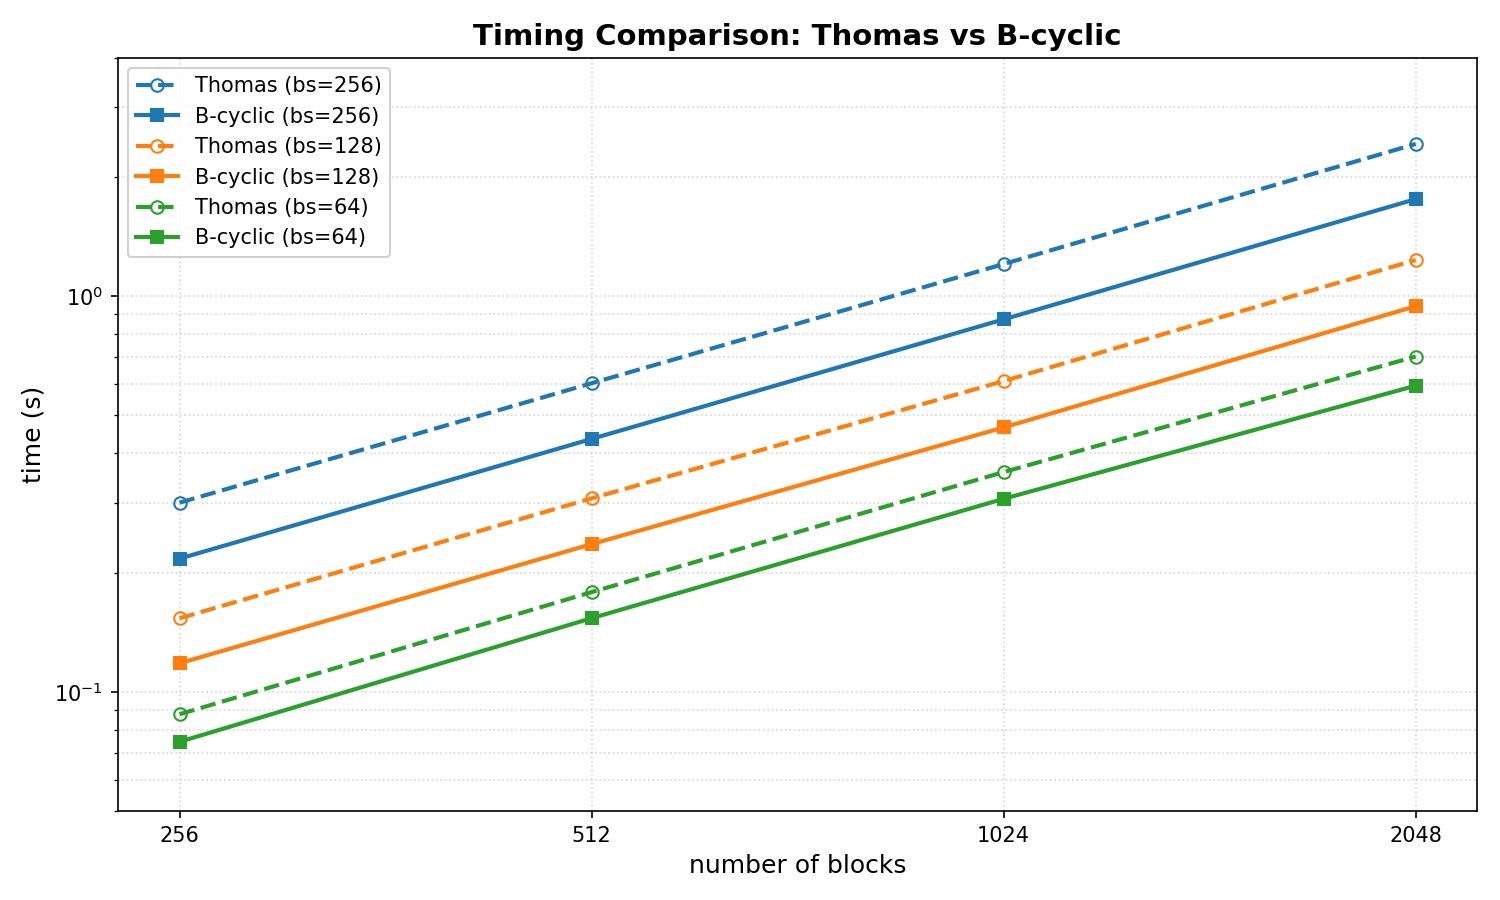
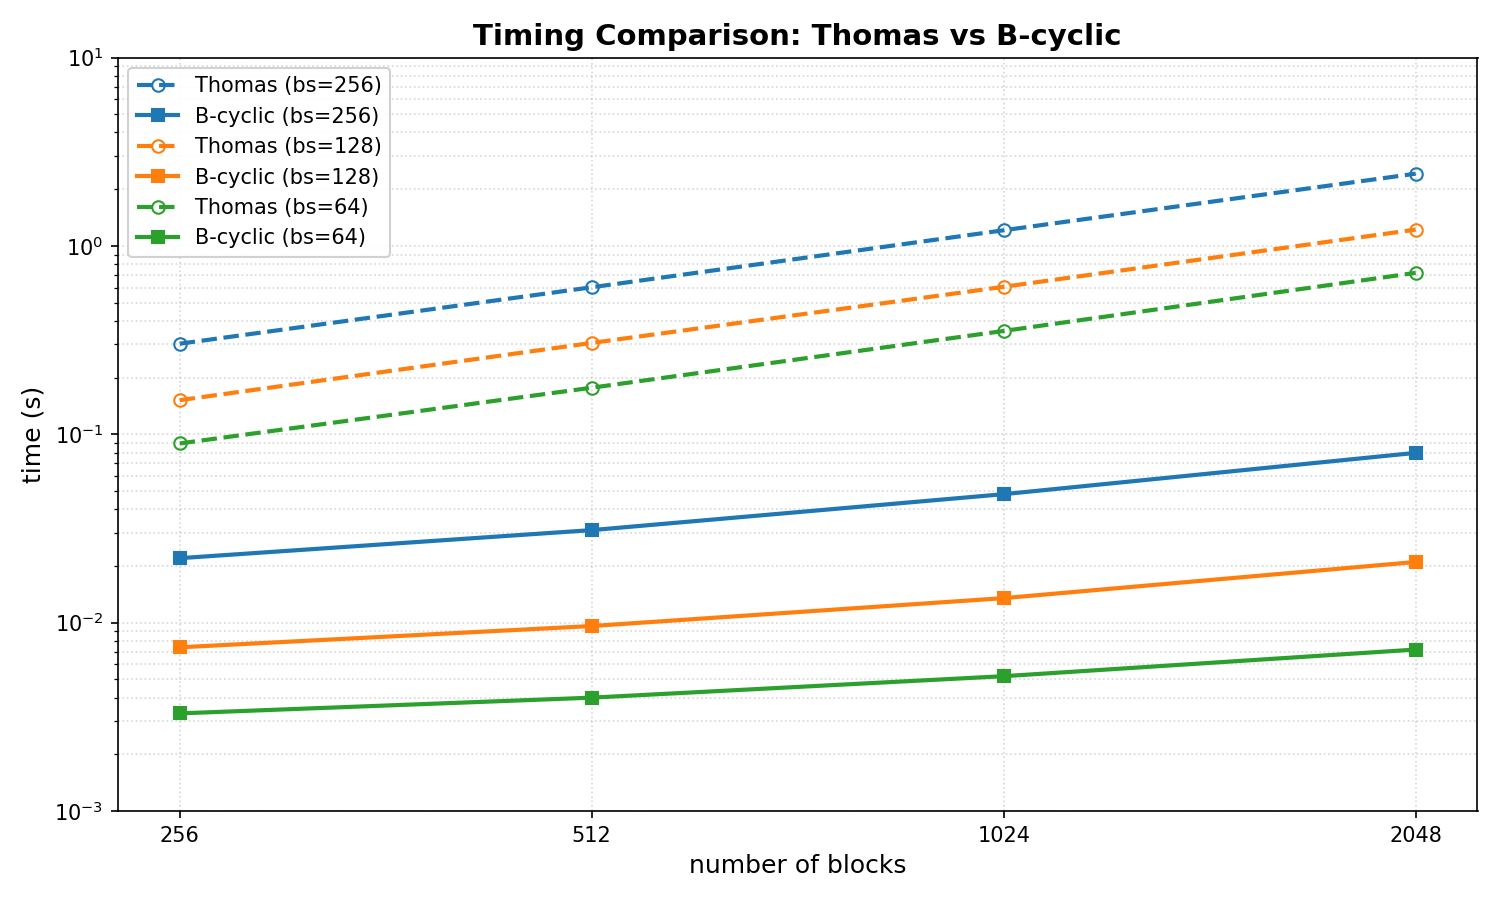
switch bcyclic to batch mode

diff --git a/blocktrix/solver_bcyclic.py b/blocktrix/solver_bcyclic.py
@@ -1,7 +1,6 @@
 import math
 import jax
 import jax.numpy as jnp
-from jax import lax
 from functools import partial
 
 """
@@ -15,96 +14,123 @@ Complexity: O(log(n) * m^3) where n = number of blocks, m = block size
 """
 
 
-def _make_eliminate_row(stride, n_blocks):
-    """Factory function to create eliminate_row with captured stride."""
+def _eliminate_level(D, L, U, B, stride, n_blocks, n_elim):
+    """
+    Eliminate all odd-multiple rows at a given level using batched LU solves.
 
-    def eliminate_row(carry, k):
-        """Eliminate row at position i = (2k+1) * stride."""
-        D, L, U, B, tape_Dinv_L_level, tape_Dinv_U_level, tape_Dinv_rhs_level = carry
-        i = (2 * k + 1) * stride
-        i_prev = i - stride
-        i_next = i + stride
+    At each level with stride s, we eliminate rows at positions i = (2k+1)*s
+    for k = 0, 1, ..., n_elim-1. All these LU solves are independent and
+    can be computed in parallel using vmap.
+    """
+    m = D.shape[1]
 
-        # Compute D_i^{-1} @ L_i, D_i^{-1} @ U_i, D_i^{-1} @ B_i
-        D_i = D[i]
-        L_i = L[i]
-        U_i = U[i]
-        B_i = B[i]
+    # Compute indices for rows to eliminate
+    ks = jnp.arange(n_elim)
+    elim_indices = (2 * ks + 1) * stride  # rows being eliminated
+    prev_indices = elim_indices - stride  # rows before (always valid)
+    next_indices = elim_indices + stride  # rows after (may be out of bounds)
 
-        Dinv_L = jax.scipy.linalg.solve(D_i, L_i)
-        Dinv_U = jax.scipy.linalg.solve(D_i, U_i)
-        Dinv_B = jax.scipy.linalg.solve(D_i, B_i)
+    # Gather matrices for eliminated rows
+    D_elim = D[elim_indices]  # (n_elim, m, m)
+    L_elim = L[elim_indices]  # (n_elim, m, m)
+    U_elim = U[elim_indices]  # (n_elim, m, m)
+    B_elim = B[elim_indices]  # (n_elim, m, k)
 
-        # Store in tape for back-substitution
-        tape_Dinv_L_level = tape_Dinv_L_level.at[i].set(Dinv_L)
-        tape_Dinv_U_level = tape_Dinv_U_level.at[i].set(Dinv_U)
-        tape_Dinv_rhs_level = tape_Dinv_rhs_level.at[i].set(Dinv_B)
+    # Batched LU solves: D_i^{-1} @ [L_i, U_i, B_i] for all eliminated rows
+    # jax.scipy.linalg.solve supports batching on leading dimensions
+    Dinv_L = jax.scipy.linalg.solve(D_elim, L_elim)  # (n_elim, m, m)
+    Dinv_U = jax.scipy.linalg.solve(D_elim, U_elim)  # (n_elim, m, m)
+    Dinv_B = jax.scipy.linalg.solve(D_elim, B_elim)  # (n_elim, m, k)
 
-        # Update row i_prev
-        U_prev = U[i_prev]
-        D = D.at[i_prev].set(D[i_prev] - U_prev @ Dinv_L)
-        B = B.at[i_prev].set(B[i_prev] - U_prev @ Dinv_B)
-        U = U.at[i_prev].set(-U_prev @ Dinv_U)
+    # Store tape values using scatter
+    tape_Dinv_L_level = jnp.zeros((n_blocks, m, m)).at[elim_indices].set(Dinv_L)
+    tape_Dinv_U_level = jnp.zeros((n_blocks, m, m)).at[elim_indices].set(Dinv_U)
+    tape_Dinv_rhs_level = (
+        jnp.zeros((n_blocks, m, B.shape[-1])).at[elim_indices].set(Dinv_B)
+    )
 
-        # Update row i_next (if it exists)
-        def update_next(args):
-            D, L, B, Dinv_L, Dinv_U, Dinv_B = args
-            L_next = L[i_next]
-            D = D.at[i_next].set(D[i_next] - L_next @ Dinv_U)
-            B = B.at[i_next].set(B[i_next] - L_next @ Dinv_B)
-            L = L.at[i_next].set(-L_next @ Dinv_L)
-            return D, L, B
+    # Update previous rows (i_prev = i - stride): always valid
+    U_prev = U[prev_indices]  # (n_elim, m, m)
+    D_prev_update = D[prev_indices] - jnp.einsum("bij,bjk->bik", U_prev, Dinv_L)
+    B_prev_update = B[prev_indices] - jnp.einsum("bij,bjk->bik", U_prev, Dinv_B)
+    U_prev_update = -jnp.einsum("bij,bjk->bik", U_prev, Dinv_U)
 
-        def no_update(args):
-            D, L, B, _, _, _ = args
-            return D, L, B
+    D = D.at[prev_indices].set(D_prev_update)
+    B = B.at[prev_indices].set(B_prev_update)
+    U = U.at[prev_indices].set(U_prev_update)
 
-        D, L, B = lax.cond(
-            i_next < n_blocks,
-            update_next,
-            no_update,
-            (D, L, B, Dinv_L, Dinv_U, Dinv_B),
-        )
+    # Update next rows (i_next = i + stride): only if in bounds
+    # Create mask for valid next indices
+    valid_next = next_indices < n_blocks
 
-        return (
-            D,
-            L,
-            U,
-            B,
-            tape_Dinv_L_level,
-            tape_Dinv_U_level,
-            tape_Dinv_rhs_level,
-        ), None
+    # Gather L_next, but use zeros for out-of-bounds indices
+    safe_next_indices = jnp.where(valid_next, next_indices, 0)
+    L_next = L[safe_next_indices]  # (n_elim, m, m)
 
-    return eliminate_row
+    # Compute updates (will be masked)
+    D_next_vals = D[safe_next_indices] - jnp.einsum("bij,bjk->bik", L_next, Dinv_U)
+    B_next_vals = B[safe_next_indices] - jnp.einsum("bij,bjk->bik", L_next, Dinv_B)
+    L_next_vals = -jnp.einsum("bij,bjk->bik", L_next, Dinv_L)
+
+    # Only update where valid_next is True
+    # Use where to mask updates
+    D_next_update = jnp.where(
+        valid_next[:, None, None], D_next_vals, D[safe_next_indices]
+    )
+    B_next_update = jnp.where(
+        valid_next[:, None, None], B_next_vals, B[safe_next_indices]
+    )
+    L_next_update = jnp.where(
+        valid_next[:, None, None], L_next_vals, L[safe_next_indices]
+    )
+
+    D = D.at[safe_next_indices].set(D_next_update)
+    B = B.at[safe_next_indices].set(B_next_update)
+    L = L.at[safe_next_indices].set(L_next_update)
+
+    return D, L, U, B, tape_Dinv_L_level, tape_Dinv_U_level, tape_Dinv_rhs_level
 
 
-def _make_recover_row(stride, n_blocks, tape_Dinv_L, tape_Dinv_U, tape_Dinv_rhs, level):
-    """Factory function to create recover_row with captured values."""
+def _recover_level(
+    x, tape_Dinv_L, tape_Dinv_U, tape_Dinv_rhs, stride, n_blocks, n_elim, level
+):
+    """
+    Recover all eliminated rows at a given level using batched operations.
 
-    def recover_row(x, k):
-        """Recover row at position i = (2k+1) * stride."""
-        i = (2 * k + 1) * stride
-        i_prev = i - stride
-        i_next = i + stride
+    At each level with stride s, we recover rows at positions i = (2k+1)*s
+    for k = 0, 1, ..., n_elim-1.
+    """
+    # Compute indices
+    ks = jnp.arange(n_elim)
+    elim_indices = (2 * ks + 1) * stride
+    prev_indices = elim_indices - stride
+    next_indices = elim_indices + stride
 
-        # x_i = D_i^{-1} @ (B_i - L_i @ x_{i-s} - U_i @ x_{i+s})
-        # The tape stores values for row i (the eliminated row)
-        x_i = tape_Dinv_rhs[level, i] - tape_Dinv_L[level, i] @ x[i_prev]
+    # Gather tape values for eliminated rows
+    Dinv_rhs = tape_Dinv_rhs[level, elim_indices]  # (n_elim, m, k)
+    Dinv_L = tape_Dinv_L[level, elim_indices]  # (n_elim, m, m)
+    Dinv_U = tape_Dinv_U[level, elim_indices]  # (n_elim, m, m)
 
-        # Subtract contribution from i_next if it exists
-        # Note: tape_Dinv_U[level, i] stores D_i^{-1} @ U_i for the eliminated row i
-        x_i = lax.cond(
-            i_next < n_blocks,
-            lambda args: args[0] - tape_Dinv_U[level, i] @ x[args[1]],
-            lambda args: args[0],
-            (x_i, i_next),
-        )
+    # Gather x values for previous rows (always valid)
+    x_prev = x[prev_indices]  # (n_elim, m, k)
 
-        x = x.at[i].set(x_i)
-        return x, None
+    # x_i = Dinv_rhs - Dinv_L @ x_prev - Dinv_U @ x_next (if valid)
+    x_elim = Dinv_rhs - jnp.einsum("bij,bjk->bik", Dinv_L, x_prev)
 
-    return recover_row
+    # Handle next rows (may be out of bounds)
+    valid_next = next_indices < n_blocks
+    safe_next_indices = jnp.where(valid_next, next_indices, 0)
+    x_next = x[safe_next_indices]  # (n_elim, m, k)
+
+    # Subtract contribution from next rows where valid
+    next_contrib = jnp.einsum("bij,bjk->bik", Dinv_U, x_next)
+    next_contrib = jnp.where(valid_next[:, None, None], next_contrib, 0.0)
+    x_elim = x_elim - next_contrib
+
+    # Scatter back to x
+    x = x.at[elim_indices].set(x_elim)
+
+    return x
 
 
 @partial(jax.jit, static_argnums=(0,))
@@ -178,23 +204,13 @@ def solve_block_tridiagonal_bcyclic(n_blocks, lower, diag, upper, rhs):
     U = upper_padded
     B = rhs
 
-    # Reduction phase - unrolled at compile time
+    # Reduction phase - unrolled at compile time with batched LU solves
     for level in range(n_levels):
         stride = 2**level
         n_elim = n_blocks // (2 * stride)
 
-        eliminate_row = _make_eliminate_row(stride, n_blocks)
-
-        tape_Dinv_L_level = tape_Dinv_L[level]
-        tape_Dinv_U_level = tape_Dinv_U[level]
-        tape_Dinv_rhs_level = tape_Dinv_rhs[level]
-
-        (D, L, U, B, tape_Dinv_L_level, tape_Dinv_U_level, tape_Dinv_rhs_level), _ = (
-            lax.scan(
-                eliminate_row,
-                (D, L, U, B, tape_Dinv_L_level, tape_Dinv_U_level, tape_Dinv_rhs_level),
-                jnp.arange(n_elim),
-            )
+        D, L, U, B, tape_Dinv_L_level, tape_Dinv_U_level, tape_Dinv_rhs_level = (
+            _eliminate_level(D, L, U, B, stride, n_blocks, n_elim)
         )
 
         tape_Dinv_L = tape_Dinv_L.at[level].set(tape_Dinv_L_level)
@@ -205,16 +221,14 @@ def solve_block_tridiagonal_bcyclic(n_blocks, lower, diag, upper, rhs):
     x = jnp.zeros_like(rhs)
     x = x.at[0].set(jax.scipy.linalg.solve(D[0], B[0]))
 
-    # Back-substitution phase - unrolled at compile time
+    # Back-substitution phase - unrolled at compile time with batched operations
     for level in range(n_levels - 1, -1, -1):
         stride = 2**level
         n_elim = n_blocks // (2 * stride)
 
-        recover_row = _make_recover_row(
-            stride, n_blocks, tape_Dinv_L, tape_Dinv_U, tape_Dinv_rhs, level
+        x = _recover_level(
+            x, tape_Dinv_L, tape_Dinv_U, tape_Dinv_rhs, stride, n_blocks, n_elim, level
         )
-
-        x, _ = lax.scan(recover_row, x, jnp.arange(n_elim))
 
     # Restore original shape
     if len(rhs_shape) == 2:

diff --git a/examples/timing/plot.py b/examples/timing/plot.py
@@ -79,7 +79,7 @@ def main():
     # unique_n_blocks = np.unique(n_blocks)
     unique_block_sizes = np.unique(block_sizes)[::-1]  # Reverse to plot largest first
 
-    # Plotting
+    # Plot Timing
     fig, ax = plt.subplots(figsize=(10, 6))
 
     # Use colormap for different block sizes
@@ -115,7 +115,7 @@ def main():
     ax.set_yscale("log", base=10)
     ax.set_xticks([256, 512, 1024, 2048])
     ax.set_xticklabels([256, 512, 1024, 2048])
-    ax.set_ylim(5e-2, 4e0)
+    ax.set_ylim(1e-3, 1e1)
     ax.set_xlabel("number of blocks", fontsize=12)
     ax.set_ylabel("time (s)", fontsize=12)
     ax.set_title(
@@ -127,6 +127,35 @@ def main():
     plt.savefig("timing.png", dpi=150)
     plt.close()
     print("Saved plot as timing.png")
+
+    # Plot Speedup
+    fig, ax = plt.subplots(figsize=(10, 6))
+    for i, bs in enumerate(unique_block_sizes):
+        mask = block_sizes == bs
+        speedup = thomas_times[mask] / bcyclic_times[mask]
+        ax.plot(
+            n_blocks[mask],
+            speedup,
+            marker="o",
+            linestyle="-",
+            color=colors[i],
+            linewidth=2,
+            markersize=6,
+            label=f"bs={bs}",
+        )
+    ax.set_xscale("log", base=2)
+    ax.set_xticks([256, 512, 1024, 2048])
+    ax.set_xticklabels([256, 512, 1024, 2048])
+    ax.set_ylim(1, 120)
+    ax.set_xlabel("number of blocks", fontsize=12)
+    ax.set_ylabel("speedup", fontsize=12)
+    ax.set_title("Speedup of B-cyclic over Thomas", fontsize=14, fontweight="bold")
+    ax.legend(loc="upper left", framealpha=0.9, ncol=1)
+    ax.grid(True, which="both", ls=":", alpha=0.5)
+    plt.tight_layout()
+    plt.savefig("speedup.png", dpi=150)
+    plt.close()
+    print("Saved plot as speedup.png")
 
 
 if __name__ == "__main__":

diff --git a/examples/timing/timing.py b/examples/timing/timing.py
@@ -67,7 +67,7 @@ def main():
     print(f"Number of blocks: {n_blocks}")
     print(f"Block size: {block_size} x {block_size}")
     print(f"Total matrix size: {n_blocks * block_size} x {n_blocks * block_size}")
-    print(f"=" * 50)
+    print(f"-" * 50)
     print()
 
     # Generate random system
@@ -94,11 +94,12 @@ def main():
     print(f"  B-cyclic time: {bcyclic_time:.4f} s")
 
     # Check agreement between methods
-    error_bc_th = jnp.max(jnp.abs(x_thomas - x_bcyclic))
-    print(f"\n  Max error (Thomas vs B-cyclic): {error_bc_th:.2e}")
+    error_bt = jnp.max(jnp.abs(x_thomas - x_bcyclic))
+    print(f"\n  Max error (Thomas vs B-cyclic): {error_bt:.2e}")
+    assert error_bt < 1e-5
 
-    # Summary without vanilla
-    print("\n" + "=" * 50)
+    # Summary
+    print("\n" + "-" * 50)
     print("Timing summary:")
     print(f"  num blocks: {n_blocks}")
     print(f"  block size: {block_size}")
@@ -108,6 +109,7 @@ def main():
         print(f"  B-cyclic is {thomas_time / bcyclic_time:.2f}x faster than Thomas")
     else:
         print(f"  Thomas is {bcyclic_time / thomas_time:.2f}x faster than B-cyclic")
+    print(f"=" * 50)
     print()
     print()
 

diff --git a/examples/timing/README.md b/examples/timing/README.md
@@ -4,12 +4,21 @@ Timing test of blocktrix library
 
 Philip Mocz (2026)
 
-Usage:
+## Usage
 
 ```console
 python timing.py
+python plot.py
 ```
+
+## Timing
 
 <div style="display:flex;flex-wrap:wrap;gap:8px">
   <img src="timing.png" alt="timing" width="45%"/>
+</div>
+
+## Speedup
+
+<div style="display:flex;flex-wrap:wrap;gap:8px">
+  <img src="speedup.png" alt="speedup" width="45%"/>
 </div>
